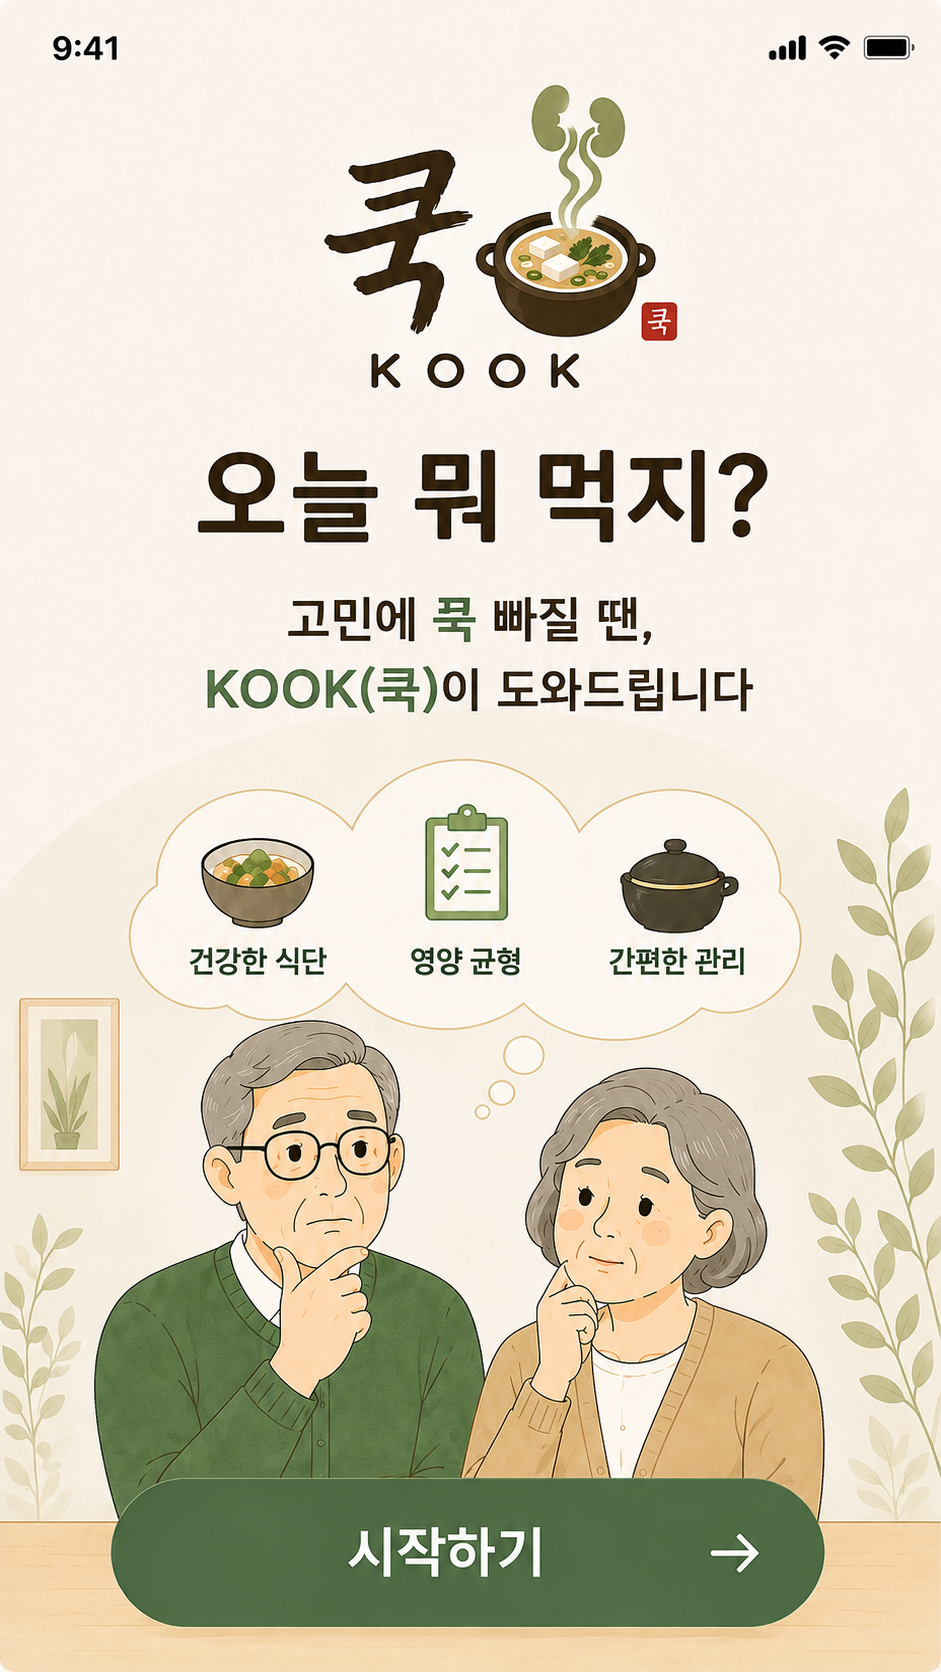
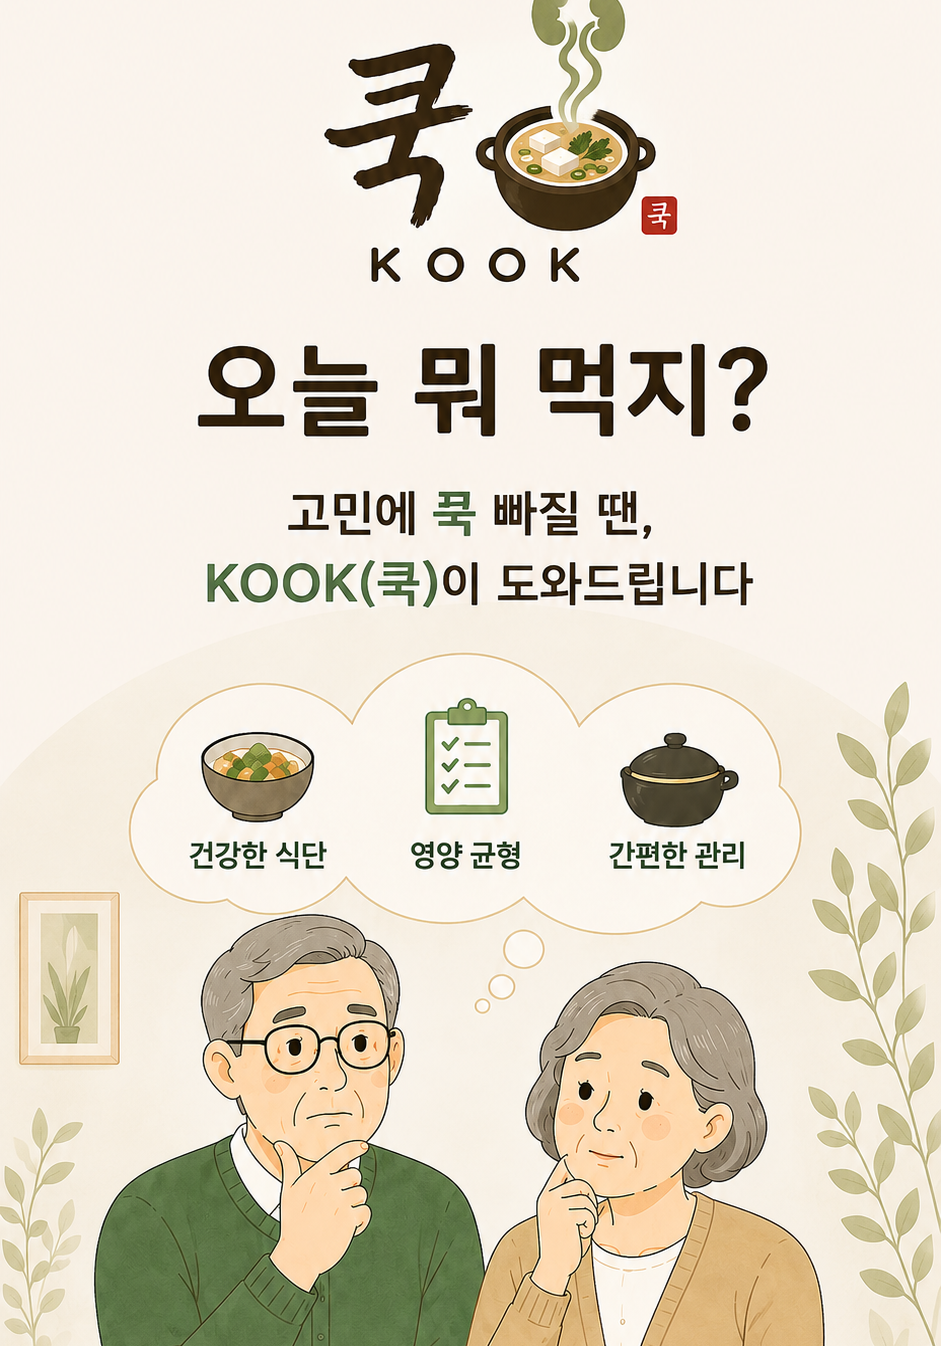
fix: 스플래시 이미지와 시작하기 버튼 사이 공백 제거
- clip-path로 버튼을 가렸더니 레이아웃 공간은 그대로 남아 빈칸이 생겼다.
  이미지 파일에서 그림 속 시작하기 버튼(y=1476 이하)을 실제로 잘라냈다.
- 위쪽의 가짜 상태바(9:41)도 제거. 기기의 진짜 상태바가 보이므로 불필요하고,
  없애면 남는 위쪽 공간을 이미지 배경색(#FAF4ED)으로 채워도 이어져 보인다.
- 이미지를 아래에 붙이고 남는 공간은 위로 보내, 버튼과 그림이 맞닿게 했다.
  좌우는 잘리지 않는다 (cover 방식은 21.8%가 잘려서 쓰지 않음).

1672 → 1346px (상단 106px · 하단 220px 제거)

diff --git a/frontend/src/fluid.css b/frontend/src/fluid.css
@@ -349,15 +349,21 @@
 /* ============================================================================
    v22 — 스플래시 이미지 · 체험 안내 팝업 · 저장 목적지 통일
    ========================================================================== */
-/* 스플래시: 이미지 안에 그려진 '시작하기' 버튼은 잘라내고, 실제 버튼은 하단 푸터에 둔다 */
+/* 스플래시: 이미지 파일에서 '시작하기' 버튼 부분은 이미 잘라냈다(실제 버튼은 푸터에 있음).
+   clip-path는 레이아웃 공간을 그대로 차지해 버튼 위에 빈칸이 생기므로 쓰지 않는다.
+   이미지를 아래쪽에 붙여, 남는 공간은 위(로고 쪽 여백)로 보낸다. */
 .splash-shot {
   width: 100%; height: 100%;
-  display: flex; align-items: flex-start; justify-content: center;
+  /* 이미지 배경과 같은 색 — 위쪽에 남는 공간이 이어져 보이도록 */
+  background: #FAF4ED;
+  display: flex; align-items: flex-end; justify-content: center;
   overflow: hidden;
 }
 .splash-shot img {
-  width: 100%; height: auto; display: block;
-  clip-path: inset(0 0 11% 0);
+  display: block;
+  width: 100%; height: auto;
+  max-height: 100%;
+  object-fit: contain; object-position: bottom center;
 }
 
 /* 체험 안내 팝업의 예시 프로필 표 */
